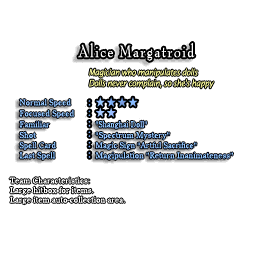
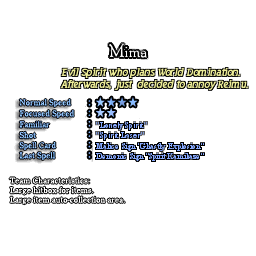
Updated descriptions for IN

Changed region(s): [[0.2188, 0.1562, 0.9688, 0.375], [0.3438, 0.4688, 0.9375, 0.6562]]

diff --git a/mima/files.js b/mima/files.js
@@ -66,15 +66,15 @@
 	"th08/data/title/sl_pl03a.png": 4181073956,
 	"th08/data/title/sl_pl03h.png": 1845854293,
 	"th08/data/title/sl_pltxt0.png": 1423342991,
-	"th08/data/title/sl_pltxt1.png": 3298418939,
+	"th08/data/title/sl_pltxt1.png": 3058675648,
 	"th08/data/title/sl_pltxt10.png": 4280599591,
 	"th08/data/title/sl_pltxt11.png": 1356094234,
 	"th08/data/title/sl_pltxt2.png": 3503936125,
 	"th08/data/title/sl_pltxt3.png": 3317551189,
 	"th08/data/title/sl_pltxt4.png": 2724803,
 	"th08/data/title/sl_pltxt5.png": 1855595020,
-	"th08/data/title/sl_pltxt6.png": 4205753998,
-	"th08/data/title/sl_pltxt7.png": 3015310332,
+	"th08/data/title/sl_pltxt6.png": 97270651,
+	"th08/data/title/sl_pltxt7.png": 4131150173,
 	"th08/data/title/sl_pltxt8.png": 2212946101,
 	"th08/data/title/sl_pltxt9.png": 338926899,
 	"th08/data/title/sl_text.png": 1704478695,
